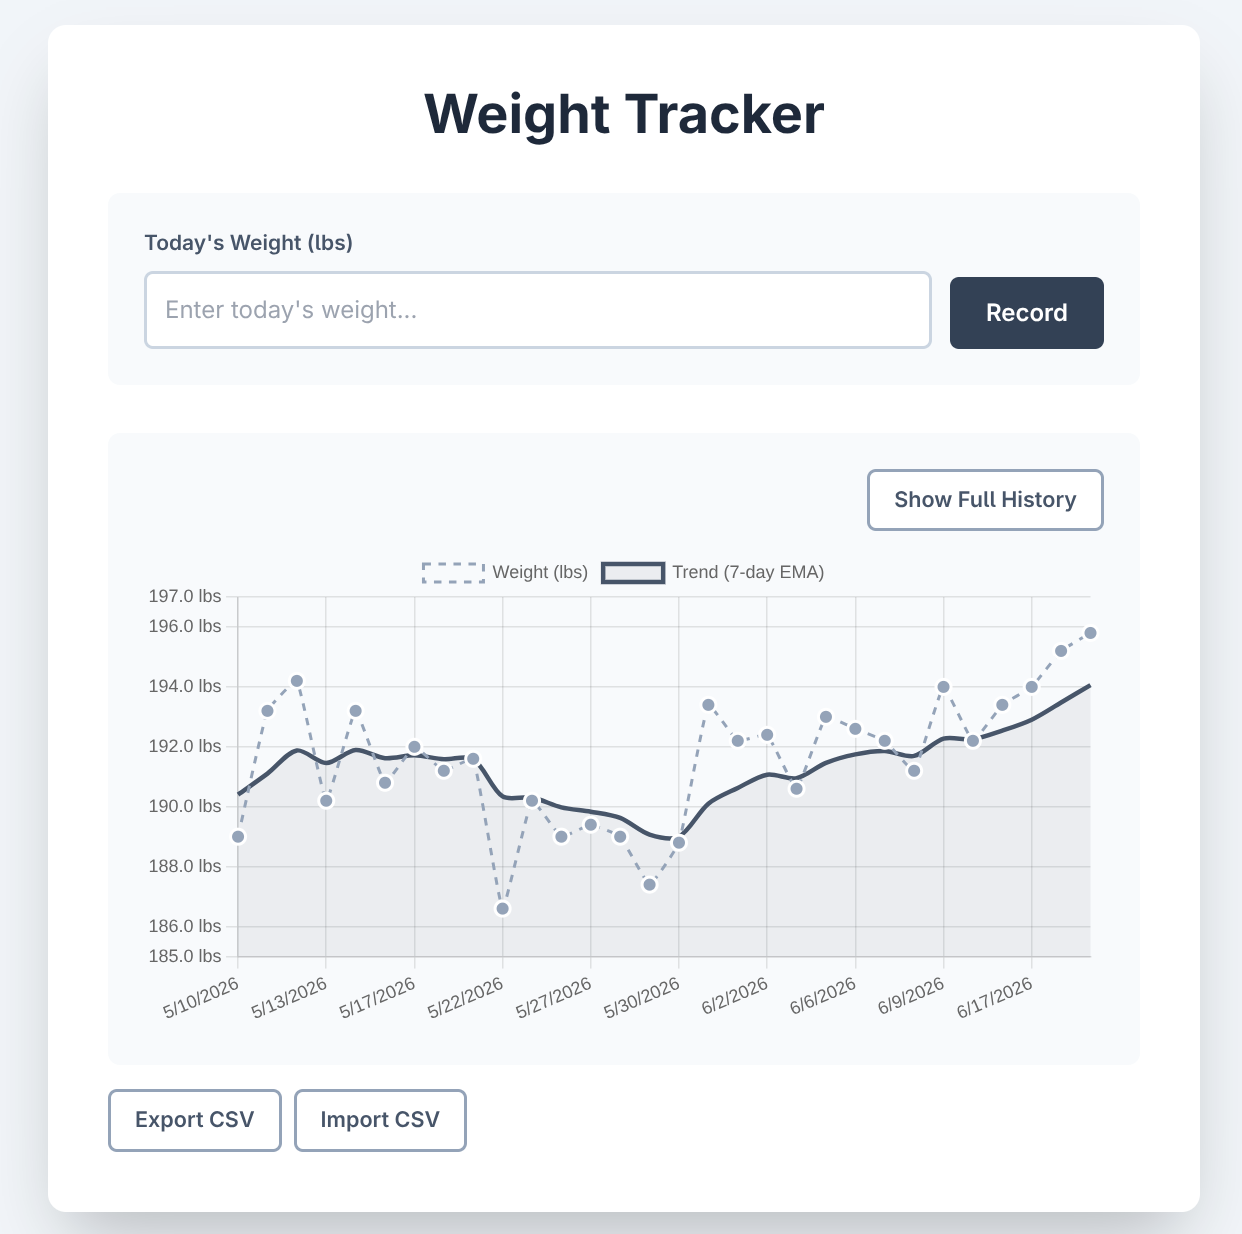
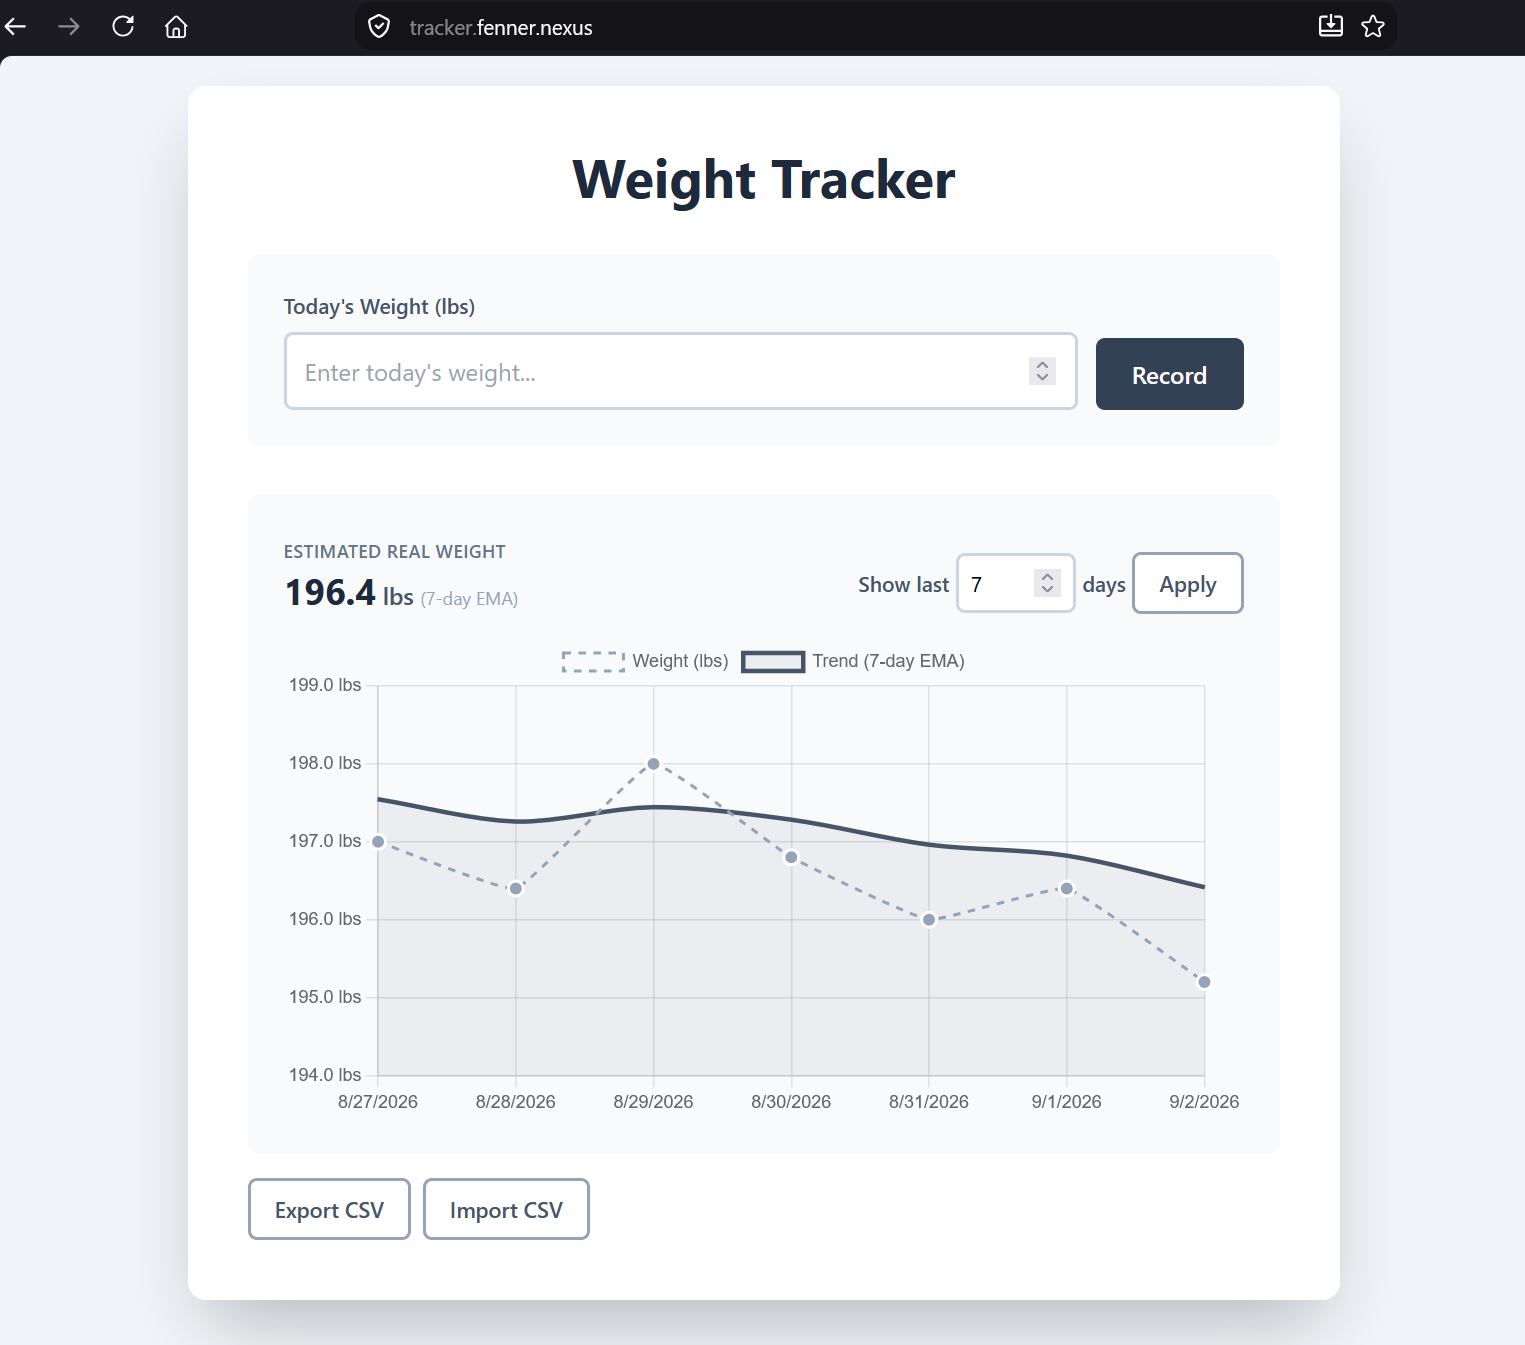
Remove title and update screenshot

diff --git a/src/templates/index.html b/src/templates/index.html
@@ -13,8 +13,6 @@
 </head>
 <body class="bg-slate-100 min-h-screen p-5 flex justify-center items-start">
     <div class="bg-white rounded-xl shadow-2xl max-w-3xl w-full p-5 sm:p-10">
-        <h1 class="text-slate-800 text-3xl sm:text-4xl font-bold text-center mb-8">Weight Tracker</h1>
-
         <div class="bg-slate-50 p-5 sm:p-6 rounded-lg mb-8">
             <div id="message-container"></div>
             <form hx-post="/api/weight" hx-swap="none">

diff --git a/README.md b/README.md
@@ -3,8 +3,6 @@
 A simple weight tracking app I vibecoded.  
 I host this on my home k3s cluster and use it every day instead of a proprietary app.
 
-## Screenshot
-Randomly generated psuedo-realistic data:
 ![Weight Tracker Dashboard](screenshot.png)
 
 ## Features
